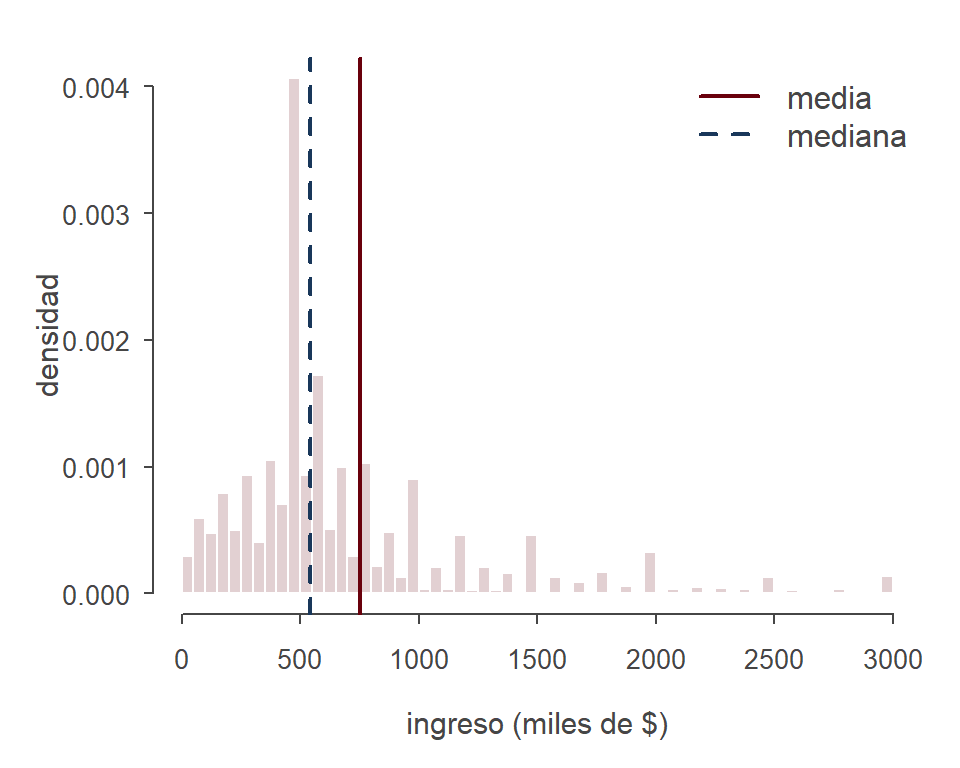
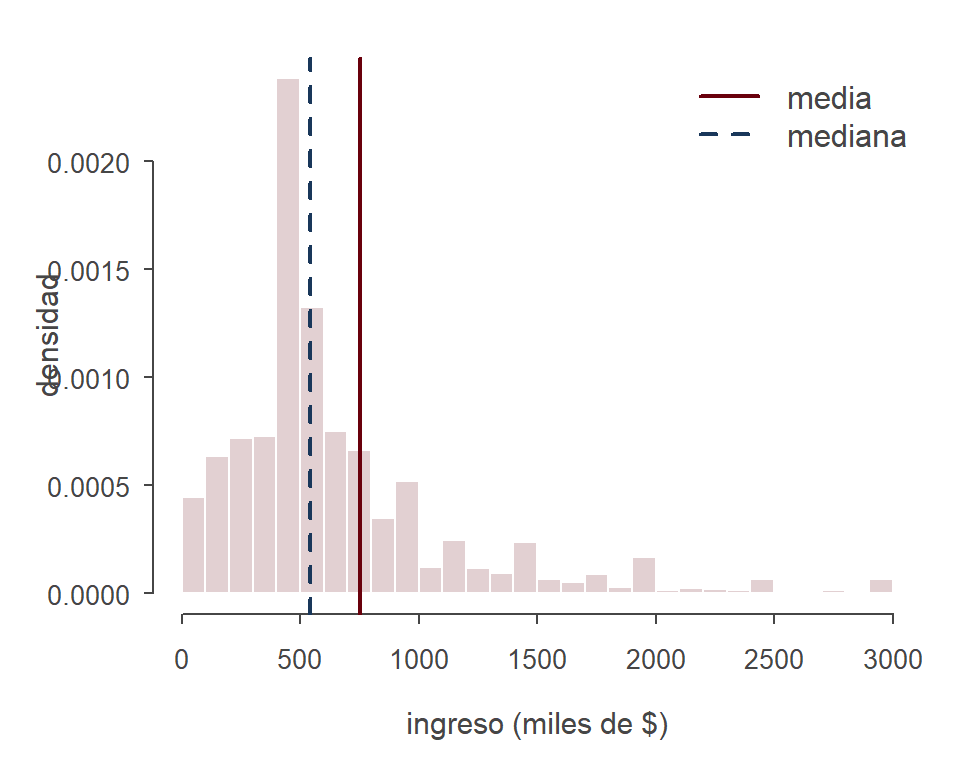
Clase 04

diff --git a/docs/weeks/week04/slides.html b/docs/weeks/week04/slides.html
@@ -11,7 +11,7 @@
   <meta name="generator" content="quarto-1.9.38">
 
   <meta name="author" content="Fran Sofía Núñez Rebolledo">
-  <meta name="dcterms.date" content="2026-10-18">
+  <meta name="dcterms.date" content="2026-10-23">
   <title>Estadística y Econometría – Clase 04: Estimación Puntual y Propiedades de los Estimadores</title>
   <meta name="apple-mobile-web-app-capable" content="yes">
   <meta name="apple-mobile-web-app-status-bar-style" content="black-translucent">
@@ -234,7 +234,7 @@
     </div>
 </div>
 
-  <p class="date">2026-10-18</p>
+  <p class="date">2026-10-23</p>
 </section>
 <section class="slide level2">
 <h2>Contenidos de hoy</h2>
@@ -828,17 +828,18 @@
 <div class="cell columns column-output-location" data-layout-align="center">
 <div class="column">
 <div class="code-copy-outer-scaffold"><div class="sourceCode cell-code" id="cb15"><pre class="sourceCode r code-with-copy"><code class="sourceCode r"><span id="cb15-1"><a aria-hidden="true" tabindex="-1"></a>y <span class="ot">&lt;-</span> ing<span class="sc">$</span>yoprcor <span class="sc">/</span> <span class="dv">1000</span>          <span class="co"># miles de pesos</span></span>
-<span id="cb15-2"><a aria-hidden="true" tabindex="-1"></a><span class="fu">hist</span>(y[y <span class="sc">&lt;=</span> <span class="dv">3000</span>], <span class="at">breaks =</span> <span class="dv">60</span>, <span class="at">freq =</span> <span class="cn">FALSE</span>,</span>
-<span id="cb15-3"><a aria-hidden="true" tabindex="-1"></a>     <span class="at">col =</span> <span class="st">"#69000C2E"</span>, <span class="at">border =</span> <span class="st">"white"</span>,</span>
-<span id="cb15-4"><a aria-hidden="true" tabindex="-1"></a>     <span class="at">main =</span> <span class="st">""</span>, <span class="at">xlab =</span> <span class="st">"ingreso (miles de $)"</span>,</span>
-<span id="cb15-5"><a aria-hidden="true" tabindex="-1"></a>     <span class="at">ylab =</span> <span class="st">"densidad"</span>)</span>
-<span id="cb15-6"><a aria-hidden="true" tabindex="-1"></a><span class="fu">abline</span>(<span class="at">v =</span> <span class="fu">mean</span>(y), <span class="at">col =</span> <span class="st">"#69000C"</span>, <span class="at">lwd =</span> <span class="dv">2</span>)</span>
-<span id="cb15-7"><a aria-hidden="true" tabindex="-1"></a><span class="fu">abline</span>(<span class="at">v =</span> <span class="fu">median</span>(y), <span class="at">col =</span> <span class="st">"#19375A"</span>,</span>
-<span id="cb15-8"><a aria-hidden="true" tabindex="-1"></a>       <span class="at">lwd =</span> <span class="dv">2</span>, <span class="at">lty =</span> <span class="dv">2</span>)</span>
-<span id="cb15-9"><a aria-hidden="true" tabindex="-1"></a><span class="fu">legend</span>(<span class="st">"topright"</span>, <span class="at">bty =</span> <span class="st">"n"</span>,</span>
-<span id="cb15-10"><a aria-hidden="true" tabindex="-1"></a>       <span class="at">legend =</span> <span class="fu">c</span>(<span class="st">"media"</span>, <span class="st">"mediana"</span>),</span>
-<span id="cb15-11"><a aria-hidden="true" tabindex="-1"></a>       <span class="at">col =</span> <span class="fu">c</span>(<span class="st">"#69000C"</span>, <span class="st">"#19375A"</span>),</span>
-<span id="cb15-12"><a aria-hidden="true" tabindex="-1"></a>       <span class="at">lty =</span> <span class="dv">1</span><span class="sc">:</span><span class="dv">2</span>, <span class="at">lwd =</span> <span class="dv">2</span>)</span></code></pre></div><button title="Copiar al portapapeles" class="code-copy-button"><i class="bi"></i></button></div>
+<span id="cb15-2"><a aria-hidden="true" tabindex="-1"></a><span class="fu">hist</span>(y[y <span class="sc">&lt;=</span> <span class="dv">3000</span>], <span class="at">breaks =</span> <span class="fu">seq</span>(<span class="dv">0</span>, <span class="dv">3000</span>, <span class="at">by =</span> <span class="dv">100</span>),</span>
+<span id="cb15-3"><a aria-hidden="true" tabindex="-1"></a>     <span class="at">freq =</span> <span class="cn">FALSE</span>,</span>
+<span id="cb15-4"><a aria-hidden="true" tabindex="-1"></a>     <span class="at">col =</span> <span class="st">"#69000C2E"</span>, <span class="at">border =</span> <span class="st">"white"</span>,</span>
+<span id="cb15-5"><a aria-hidden="true" tabindex="-1"></a>     <span class="at">main =</span> <span class="st">""</span>, <span class="at">xlab =</span> <span class="st">"ingreso (miles de $)"</span>,</span>
+<span id="cb15-6"><a aria-hidden="true" tabindex="-1"></a>     <span class="at">ylab =</span> <span class="st">"densidad"</span>)</span>
+<span id="cb15-7"><a aria-hidden="true" tabindex="-1"></a><span class="fu">abline</span>(<span class="at">v =</span> <span class="fu">mean</span>(y), <span class="at">col =</span> <span class="st">"#69000C"</span>, <span class="at">lwd =</span> <span class="dv">2</span>)</span>
+<span id="cb15-8"><a aria-hidden="true" tabindex="-1"></a><span class="fu">abline</span>(<span class="at">v =</span> <span class="fu">median</span>(y), <span class="at">col =</span> <span class="st">"#19375A"</span>,</span>
+<span id="cb15-9"><a aria-hidden="true" tabindex="-1"></a>       <span class="at">lwd =</span> <span class="dv">2</span>, <span class="at">lty =</span> <span class="dv">2</span>)</span>
+<span id="cb15-10"><a aria-hidden="true" tabindex="-1"></a><span class="fu">legend</span>(<span class="st">"topright"</span>, <span class="at">bty =</span> <span class="st">"n"</span>,</span>
+<span id="cb15-11"><a aria-hidden="true" tabindex="-1"></a>       <span class="at">legend =</span> <span class="fu">c</span>(<span class="st">"media"</span>, <span class="st">"mediana"</span>),</span>
+<span id="cb15-12"><a aria-hidden="true" tabindex="-1"></a>       <span class="at">col =</span> <span class="fu">c</span>(<span class="st">"#69000C"</span>, <span class="st">"#19375A"</span>),</span>
+<span id="cb15-13"><a aria-hidden="true" tabindex="-1"></a>       <span class="at">lty =</span> <span class="dv">1</span><span class="sc">:</span><span class="dv">2</span>, <span class="at">lwd =</span> <span class="dv">2</span>)</span></code></pre></div><button title="Copiar al portapapeles" class="code-copy-button"><i class="bi"></i></button></div>
 </div><div class="column">
 <div class="cell-output-display">
 <div class="quarto-figure quarto-figure-center">
@@ -849,7 +850,7 @@
 </div>
 </div></div>
 <div class="fragment">
-<p>Como en los datos de EE.UU. de la clase 02, la media queda bastante por encima de la mediana. El gráfico excluye a menos del 2% de los encuestados, que ganan más de $3 millones.</p>
+<p>Como en los datos de EE.UU. de la clase 02, la media queda bastante por encima de la mediana. El gráfico excluye a menos del 2% de los encuestados, que ganan más de $3 millones. El peak entre $400 y $500 mil coincide con el salario mínimo, que desde julio de 2024 es de $500 mil.</p>
 </div>
 </section>
 <section class="slide level2">
@@ -889,14 +890,15 @@
 <h2>Simulación: la distribución muestral de <span class="math inline">\(\bar X_n\)</span></h2>
 <div class="cell" data-layout-align="center">
 <div class="code-copy-outer-scaffold"><div class="sourceCode cell-code" id="cb20"><pre class="sourceCode r code-with-copy"><code class="sourceCode r"><span id="cb20-1"><a aria-hidden="true" tabindex="-1"></a><span class="fu">set.seed</span>(<span class="dv">2024</span>)</span>
-<span id="cb20-2"><a aria-hidden="true" tabindex="-1"></a><span class="fu">par</span>(<span class="at">mfrow =</span> <span class="fu">c</span>(<span class="dv">1</span>, <span class="dv">3</span>))</span>
+<span id="cb20-2"><a aria-hidden="true" tabindex="-1"></a><span class="fu">par</span>(<span class="at">mfrow =</span> <span class="fu">c</span>(<span class="dv">1</span>, <span class="dv">3</span>), <span class="at">mar =</span> <span class="fu">c</span>(<span class="dv">4</span>, <span class="dv">5</span>, <span class="fl">1.5</span>, <span class="dv">1</span>))</span>
 <span id="cb20-3"><a aria-hidden="true" tabindex="-1"></a><span class="cf">for</span> (n <span class="cf">in</span> <span class="fu">c</span>(<span class="dv">20</span>, <span class="dv">100</span>, <span class="dv">1000</span>)) {</span>
 <span id="cb20-4"><a aria-hidden="true" tabindex="-1"></a>  medias <span class="ot">&lt;-</span> <span class="fu">replicate</span>(<span class="dv">5000</span>, <span class="fu">mean</span>(<span class="fu">sample</span>(pob, n, <span class="at">replace =</span> <span class="cn">TRUE</span>)))</span>
-<span id="cb20-5"><a aria-hidden="true" tabindex="-1"></a>  <span class="fu">hist</span>(medias, <span class="at">breaks =</span> <span class="dv">50</span>, <span class="at">freq =</span> <span class="cn">FALSE</span>, <span class="at">xlim =</span> <span class="fu">c</span>(<span class="dv">400</span>, <span class="dv">1300</span>),</span>
-<span id="cb20-6"><a aria-hidden="true" tabindex="-1"></a>       <span class="at">col =</span> <span class="st">"#69000C2E"</span>, <span class="at">border =</span> <span class="st">"white"</span>, <span class="at">ylab =</span> <span class="st">"densidad"</span>,</span>
-<span id="cb20-7"><a aria-hidden="true" tabindex="-1"></a>       <span class="at">main =</span> <span class="fu">paste</span>(<span class="st">"n ="</span>, n), <span class="at">xlab =</span> <span class="st">"media muestral (miles de $)"</span>)</span>
-<span id="cb20-8"><a aria-hidden="true" tabindex="-1"></a>  <span class="fu">abline</span>(<span class="at">v =</span> mu, <span class="at">col =</span> <span class="st">"#69000C"</span>, <span class="at">lwd =</span> <span class="dv">2</span>)</span>
-<span id="cb20-9"><a aria-hidden="true" tabindex="-1"></a>}</span></code></pre></div><button title="Copiar al portapapeles" class="code-copy-button"><i class="bi"></i></button></div>
+<span id="cb20-5"><a aria-hidden="true" tabindex="-1"></a>  <span class="fu">hist</span>(medias, <span class="at">breaks =</span> <span class="fu">seq</span>(<span class="dv">0</span>, <span class="fu">max</span>(medias) <span class="sc">+</span> <span class="dv">10</span>, <span class="at">by =</span> <span class="dv">10</span>), <span class="at">freq =</span> <span class="cn">FALSE</span>,</span>
+<span id="cb20-6"><a aria-hidden="true" tabindex="-1"></a>       <span class="at">xlim =</span> <span class="fu">c</span>(<span class="dv">400</span>, <span class="dv">1300</span>),</span>
+<span id="cb20-7"><a aria-hidden="true" tabindex="-1"></a>       <span class="at">col =</span> <span class="st">"#69000C2E"</span>, <span class="at">border =</span> <span class="st">"white"</span>, <span class="at">ylab =</span> <span class="st">"densidad"</span>,</span>
+<span id="cb20-8"><a aria-hidden="true" tabindex="-1"></a>       <span class="at">main =</span> <span class="fu">paste</span>(<span class="st">"n ="</span>, n), <span class="at">xlab =</span> <span class="st">"media muestral (miles de $)"</span>)</span>
+<span id="cb20-9"><a aria-hidden="true" tabindex="-1"></a>  <span class="fu">abline</span>(<span class="at">v =</span> mu, <span class="at">col =</span> <span class="st">"#69000C"</span>, <span class="at">lwd =</span> <span class="dv">2</span>)</span>
+<span id="cb20-10"><a aria-hidden="true" tabindex="-1"></a>}</span></code></pre></div><button title="Copiar al portapapeles" class="code-copy-button"><i class="bi"></i></button></div>
 
 </div>
 <img data-src="slides_files/figure-revealjs/unnamed-chunk-9-1.png" class="quarto-figure quarto-figure-center r-stretch" width="960"><div class="fragment">
@@ -918,7 +920,7 @@
 <span id="cb21-9"><a aria-hidden="true" tabindex="-1"></a>})</span>
 <span id="cb21-10"><a aria-hidden="true" tabindex="-1"></a><span class="fu">plot</span>(ns, razon, <span class="at">pch =</span> <span class="dv">19</span>, <span class="at">col =</span> <span class="st">"#69000C"</span>,</span>
 <span id="cb21-11"><a aria-hidden="true" tabindex="-1"></a>     <span class="at">ylim =</span> <span class="fu">c</span>(<span class="fl">0.7</span>, <span class="fl">1.05</span>), <span class="at">xlab =</span> <span class="st">"n"</span>,</span>
-<span id="cb21-12"><a aria-hidden="true" tabindex="-1"></a>     <span class="at">ylab =</span> <span class="st">"E[sigma2 plug-in] / sigma2"</span>)</span>
+<span id="cb21-12"><a aria-hidden="true" tabindex="-1"></a>     <span class="at">ylab =</span> <span class="fu">expression</span>(<span class="fu">E</span>(<span class="fu">hat</span>(sigma)<span class="sc">^</span><span class="dv">2</span>) <span class="sc">/</span> sigma<span class="sc">^</span><span class="dv">2</span>))</span>
 <span id="cb21-13"><a aria-hidden="true" tabindex="-1"></a><span class="fu">curve</span>(<span class="dv">1</span> <span class="sc">-</span> <span class="dv">1</span><span class="sc">/</span>x, <span class="at">add =</span> <span class="cn">TRUE</span>, <span class="at">col =</span> <span class="st">"#19375A"</span>, <span class="at">lwd =</span> <span class="dv">2</span>)</span>
 <span id="cb21-14"><a aria-hidden="true" tabindex="-1"></a><span class="fu">abline</span>(<span class="at">h =</span> <span class="dv">1</span>, <span class="at">lty =</span> <span class="dv">2</span>, <span class="at">col =</span> <span class="st">"#464646"</span>)</span></code></pre></div><button title="Copiar al portapapeles" class="code-copy-button"><i class="bi"></i></button></div>
 </div><div class="column">

diff --git a/docs/weeks/week02/slides.html b/docs/weeks/week02/slides.html
@@ -11,7 +11,7 @@
   <meta name="generator" content="quarto-1.9.38">
 
   <meta name="author" content="Fran Sofía Núñez Rebolledo">
-  <meta name="dcterms.date" content="2026-10-18">
+  <meta name="dcterms.date" content="2026-10-23">
   <title>Estadística y Econometría – Clase 02: Variables Aleatorias y Distribuciones</title>
   <meta name="apple-mobile-web-app-capable" content="yes">
   <meta name="apple-mobile-web-app-status-bar-style" content="black-translucent">
@@ -234,7 +234,7 @@
     </div>
 </div>
 
-  <p class="date">2026-10-18</p>
+  <p class="date">2026-10-23</p>
 </section>
 <section class="slide level2">
 <h2>Contenidos de hoy</h2>

diff --git a/docs/weeks/week03/slides.html b/docs/weeks/week03/slides.html
@@ -11,7 +11,7 @@
   <meta name="generator" content="quarto-1.9.38">
 
   <meta name="author" content="Fran Sofía Núñez Rebolledo">
-  <meta name="dcterms.date" content="2026-10-18">
+  <meta name="dcterms.date" content="2026-10-23">
   <title>Estadística y Econometría – Clase 03: Muestreo y Teoría Asintótica</title>
   <meta name="apple-mobile-web-app-capable" content="yes">
   <meta name="apple-mobile-web-app-status-bar-style" content="black-translucent">
@@ -234,7 +234,7 @@
     </div>
 </div>
 
-  <p class="date">2026-10-18</p>
+  <p class="date">2026-10-23</p>
 </section>
 <section class="slide level2">
 <h2>Contenidos de hoy</h2>

diff --git a/docs/weeks/week01/slides.html b/docs/weeks/week01/slides.html
@@ -11,7 +11,7 @@
   <meta name="generator" content="quarto-1.9.38">
 
   <meta name="author" content="Fran Sofía Núñez Rebolledo">
-  <meta name="dcterms.date" content="2026-10-18">
+  <meta name="dcterms.date" content="2026-10-23">
   <title>Estadística y Econometría – Clase 01: Fundamentos de Probabilidad</title>
   <meta name="apple-mobile-web-app-capable" content="yes">
   <meta name="apple-mobile-web-app-status-bar-style" content="black-translucent">
@@ -234,7 +234,7 @@
     </div>
 </div>
 
-  <p class="date">2026-10-18</p>
+  <p class="date">2026-10-23</p>
 </section>
 <section class="slide level2">
 <h2>Contenidos de hoy</h2>
